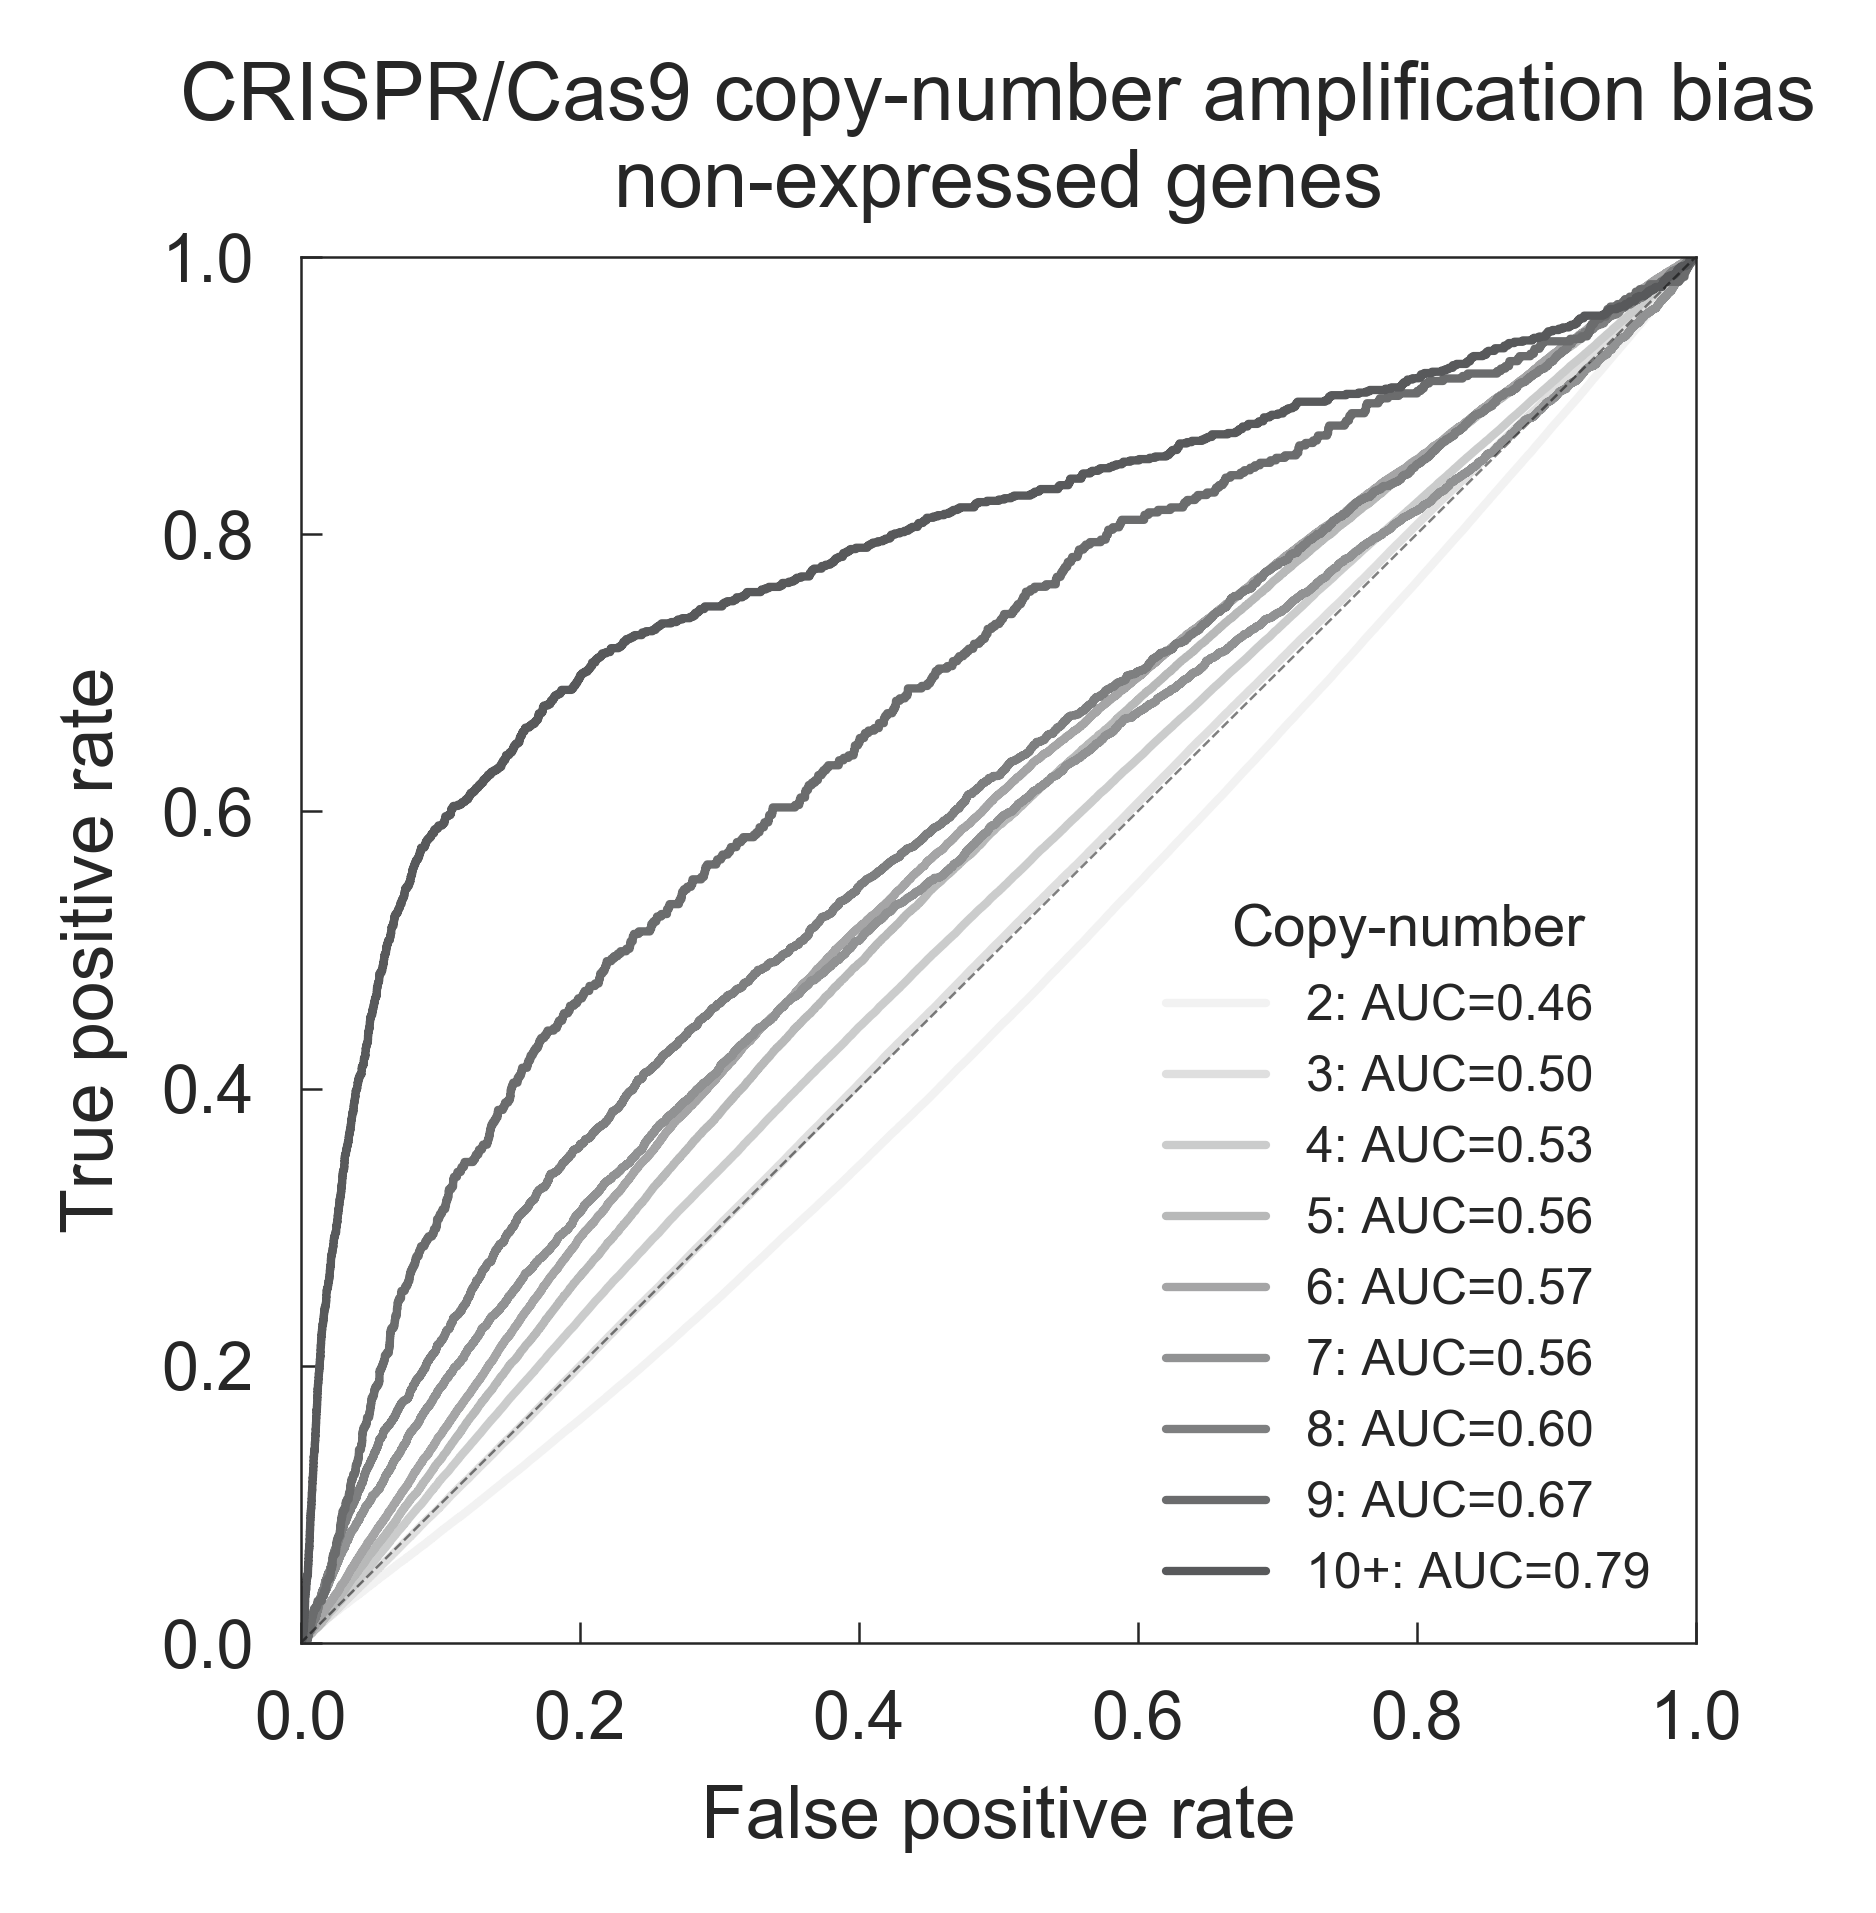
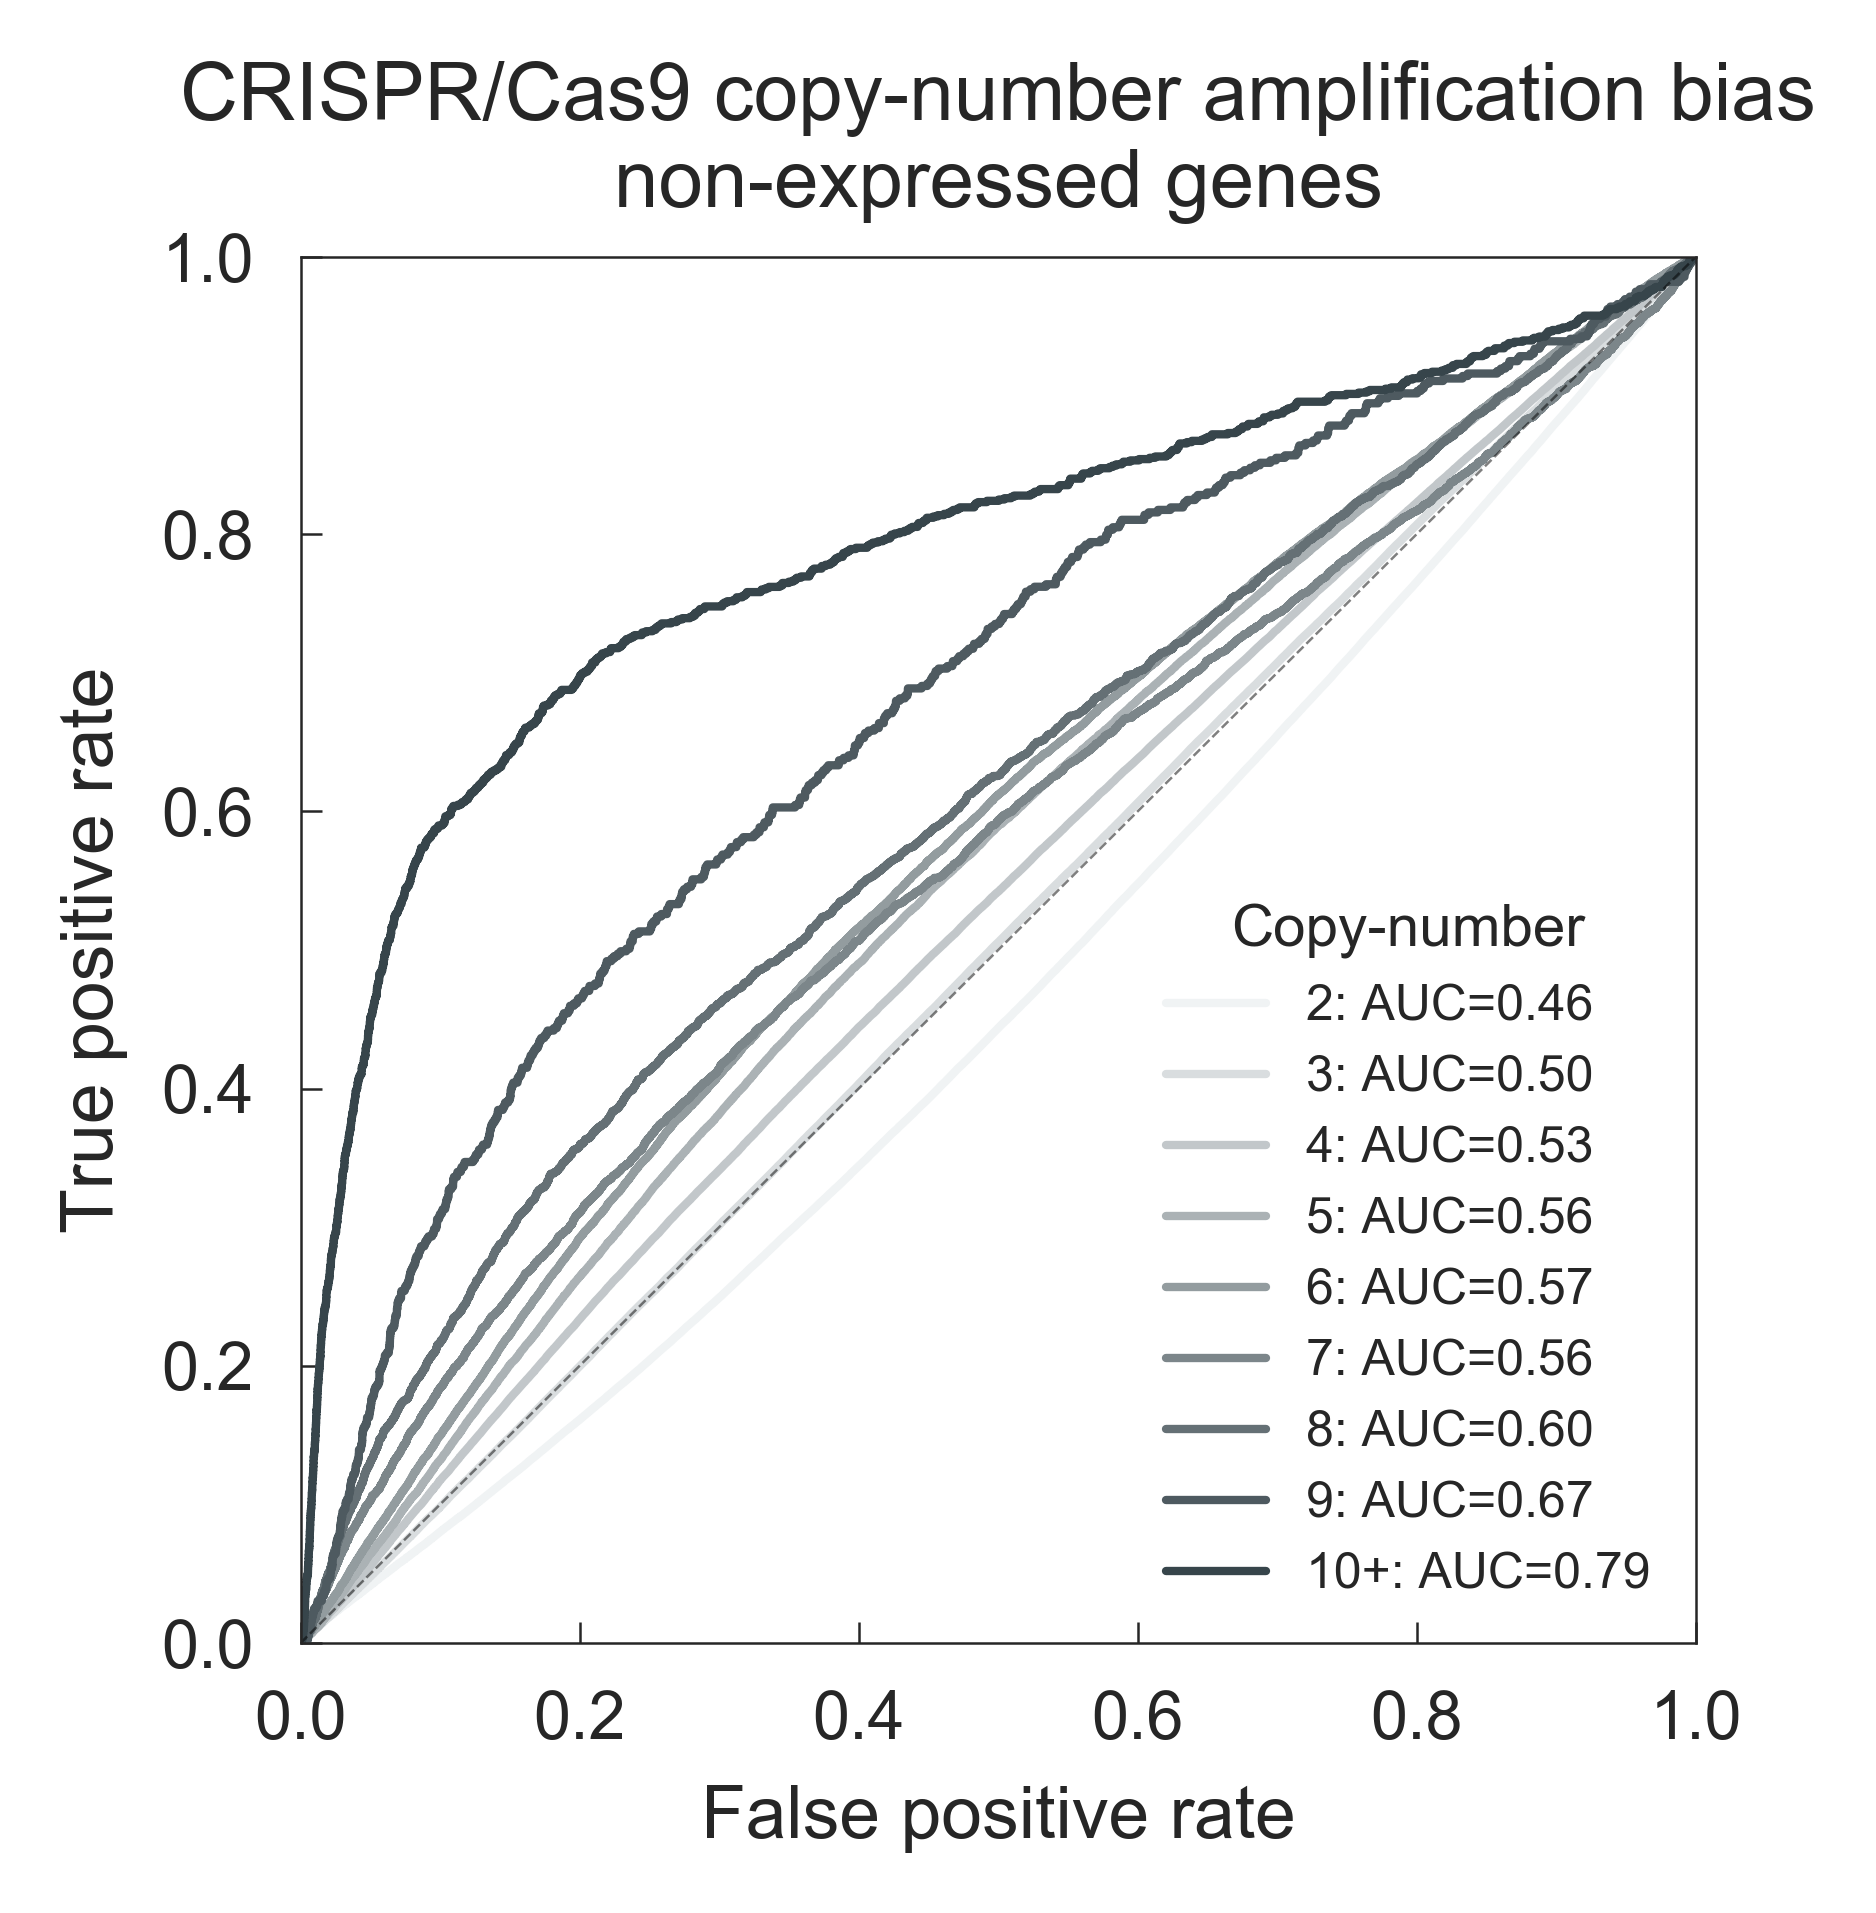
Ploidy enrichment analysis

diff --git a/scripts/crispy/correct_build.py b/scripts/crispy/correct_build.py
@@ -6,8 +6,10 @@ import pickle
 import numpy as np
 import pandas as pd
 import seaborn as sns
+import scipy.stats as st
 import matplotlib.pyplot as plt
-from crispy import bipal_gray
+import matplotlib.patches as mpatches
+from crispy import bipal_dbgd
 from natsort import natsorted
 from sklearn.linear_model import LinearRegression
 from crispy.benchmark_plot import plot_cumsum_auc
@@ -41,6 +43,12 @@ c_gdsc = pd.DataFrame({
 }).dropna()
 c_gdsc.round(5).to_csv('data/crispr_gdsc_crispy.csv')
 
+c_gdsc_kmean = pd.DataFrame({
+    os.path.splitext(f)[0].replace('crispr_gdsc_crispy_', ''):
+        pd.read_csv('data/crispy/' + f, index_col=0)['k_mean']
+    for f in os.listdir('data/crispy/') if f.startswith('crispr_gdsc_crispy_')
+}).dropna()
+
 # CCLE
 c_ccle_fc = pd.read_csv('data/crispr_ccle_logfc.csv', index_col=0)
 
@@ -50,6 +58,10 @@ c_ccle = pd.DataFrame({
     for f in os.listdir('data/crispy/') if f.startswith('crispr_ccle_crispy_')
 }).dropna()
 c_ccle.round(5).to_csv('data/crispr_ccle_crispy.csv')
+
+
+# - Copy-number absolute
+gdsc_cnv_abs = gdsc_cnv[c_gdsc_fc.columns].applymap(lambda v: int(v.split(',')[1])).replace(-1, np.nan)
 
 
 # - Benchmark
@@ -72,9 +84,9 @@ for n, df, df_ in [('gdsc', c_gdsc, c_gdsc_fc)]:
 
     ax = plt.gca()
 
-    ax.scatter(plot_df['Original'], plot_df['Corrected'], c=bipal_gray[0], s=3, marker='x', lw=0.5)
-    sns.rugplot(plot_df['Original'], height=.02, axis='x', c=bipal_gray[0], lw=.3, ax=ax)
-    sns.rugplot(plot_df['Corrected'], height=.02, axis='y', c=bipal_gray[0], lw=.3, ax=ax)
+    ax.scatter(plot_df['Original'], plot_df['Corrected'], c=bipal_dbgd[0], s=3, marker='x', lw=0.5)
+    sns.rugplot(plot_df['Original'], height=.02, axis='x', c=bipal_dbgd[0], lw=.3, ax=ax)
+    sns.rugplot(plot_df['Corrected'], height=.02, axis='y', c=bipal_dbgd[0], lw=.3, ax=ax)
 
     x_lim, y_lim = ax.get_xlim(), ax.get_ylim()
     ax.plot(x_lim, y_lim, 'k--', lw=.3)
@@ -108,9 +120,9 @@ for n, df, df_ in [('gdsc', c_gdsc, c_gdsc_fc)]:
 
     ax = plt.gca()
 
-    ax.scatter(plot_df['Original'], plot_df['Corrected'], c=bipal_gray[0], s=3, marker='x', lw=0.5)
-    sns.rugplot(plot_df['Original'], height=.02, axis='x', c=bipal_gray[0], lw=.3, ax=ax)
-    sns.rugplot(plot_df['Corrected'], height=.02, axis='y', c=bipal_gray[0], lw=.3, ax=ax)
+    ax.scatter(plot_df['Original'], plot_df['Corrected'], c=bipal_dbgd[0], s=3, marker='x', lw=0.5)
+    sns.rugplot(plot_df['Original'], height=.02, axis='x', c=bipal_dbgd[0], lw=.3, ax=ax)
+    sns.rugplot(plot_df['Corrected'], height=.02, axis='y', c=bipal_dbgd[0], lw=.3, ax=ax)
 
     x_lim, y_lim = ax.get_xlim(), ax.get_ylim()
     ax.plot(x_lim, y_lim, 'k--', lw=.3)
@@ -135,10 +147,12 @@ plot_df = pd.concat([
 ], axis=1).dropna()
 plot_df = plot_df.assign(cnv_abs=plot_df['cnv'].apply(lambda v: int(v.split(',')[1])).values).query('cnv_abs >= 2')
 plot_df = plot_df.assign(cnv=[str(i) if i < 10 else '10+' for i in plot_df['cnv_abs']])
+plot_df = plot_df.assign(ploidy=gdsc_cnv_abs.median()[plot_df['sample']].astype(int).values)
 plot_df = plot_df.reset_index().rename(columns={'level_0': 'sample', 'level_1': 'gene'})
+plot_df = plot_df.assign(rank=st.rankdata(plot_df['fc']) / plot_df.shape[0])
 
 thresholds = natsorted(set(plot_df['cnv']))
-thresholds_color = sns.light_palette(bipal_gray[0], n_colors=len(thresholds)).as_hex()
+thresholds_color = sns.light_palette(bipal_dbgd[0], n_colors=len(thresholds)).as_hex()
 
 ax = plt.gca()
 
@@ -161,7 +175,7 @@ plt.savefig('reports/processing_gdsc_copy_number_bias.png', bbox_inches='tight',
 plt.close('all')
 
 
-# - Copy-number variation across cell lines
+# Copy-number variation across cell lines
 df = {}
 for c in set(plot_df['sample']):
     df_ = plot_df.query("sample == '%s'" % c)
@@ -174,6 +188,7 @@ for c in set(plot_df['sample']):
 
 df = pd.DataFrame(df)
 df = df.unstack().reset_index().dropna().rename(columns={'level_0': 'sample', 'level_1': 'cnv', 0: 'auc'})
+df = df.assign(ploidy=gdsc_cnv_abs.median()[df['sample']].astype(int).values)
 
 sns.boxplot('cnv', 'auc', data=df, sym='', order=thresholds, palette=thresholds_color, linewidth=.3)
 sns.stripplot('cnv', 'auc', data=df, order=thresholds, palette=thresholds_color, edgecolor='white', linewidth=.1, size=3, jitter=.4)
@@ -182,10 +197,69 @@ sns.stripplot('cnv', 'auc', data=df, order=thresholds, palette=thresholds_color,
 plt.title('CRISPR/Cas9 copy-number amplification bias\nnon-expressed genes')
 plt.xlabel('Copy-number')
 plt.ylabel('Copy-number AUC (cell lines)')
-plt.axhline(0.5, ls='--', lw=.3, alpha=.5, c=bipal_gray[0])
+plt.axhline(0.5, ls='--', lw=.3, alpha=.5, c=bipal_dbgd[0])
 plt.gcf().set_size_inches(3, 3)
 plt.savefig('reports/processing_gdsc_copy_number_bias_per_sample.png', bbox_inches='tight', dpi=600)
 plt.close('all')
 
 #
+pal = sns.light_palette(bipal_dbgd[0], n_colors=len(set(df['ploidy']))).as_hex()
 
+sns.boxplot('cnv', 'auc', 'ploidy', data=df, sym='', order=thresholds, palette=pal, linewidth=.3)
+sns.stripplot('cnv', 'auc', 'ploidy', data=df, order=thresholds, palette=pal, edgecolor='white', linewidth=.1, size=1, jitter=.2, split=True)
+# plt.show()
+
+handles = [mpatches.Circle([.0, .0], .25, facecolor=c, label=l) for c, l in zip(*(pal, thresholds))]
+legend = plt.legend(handles=handles, title='Ploidy', prop={'size': 6}).get_title().set_fontsize('6')
+plt.title('Cell ploidy effect CRISPR/Cas9 bias\nnon-expressed genes')
+plt.xlabel('Copy-number')
+plt.ylabel('Copy-number AUC (cell lines)')
+plt.axhline(0.5, ls='--', lw=.3, alpha=.5, c=bipal_dbgd[0])
+plt.gcf().set_size_inches(3, 3)
+plt.savefig('reports/processing_gdsc_copy_number_bias_per_sample_ploidy.png', bbox_inches='tight', dpi=600)
+plt.close('all')
+
+# Copy-number variation relation with ploidy
+ax = plt.gca()
+
+sns.boxplot('cnv', 'fc', 'ploidy', data=plot_df, order=thresholds, palette=pal, linewidth=.3, fliersize=1, ax=ax, notch=True)
+plt.axhline(0, lw=.3, c=bipal_dbgd[0], ls='-')
+plt.xlabel('Copy-number')
+plt.ylabel('CRISPR fold-change (log2)')
+plt.title('Cell ploidy effect CRISPR/Cas9 bias\nnon-expressed genes')
+
+plt.legend(title='Ploidy', prop={'size': 6}).get_title().set_fontsize('6')
+plt.gcf().set_size_inches(4, 3)
+plt.savefig('reports/processing_gdsc_copy_number_bias_ploidy.png', bbox_inches='tight', dpi=600)
+plt.close('all')
+
+# Ploidy effect in copy-number
+plot_df = pd.concat([(gdsc_cnv_abs > 2).sum().rename('cnv'), ploidy.rename('ploidy')], axis=1).dropna()
+
+g = sns.jointplot(
+    'cnv', 'ploidy', data=plot_df, color=bipal_dbgd[0], space=0,
+    joint_kws={'edgecolor': 'white', 'lw': .3, 's': 5},
+    marginal_kws={'bins': 15}
+)
+g.set_axis_labels('# genes with copy-number > 2', 'Cell line ploidy')
+
+plt.gcf().set_size_inches(3, 3)
+plt.savefig('reports/ploidy_cnv_jointplot.png', bbox_inches='tight', dpi=600)
+plt.close('all')
+
+#
+df = pd.concat([
+    ploidy.rename('ploidy'),
+    gdsc_cnv.loc[:, ploidy.index].applymap(lambda v: int(v.split(',')[1]) if str(v).lower() != 'nan' else np.nan).replace(-1, np.nan).median().rename('cnv')
+], axis=1)
+
+g = sns.jointplot(
+    'ploidy', 'cnv', data=df, color=bipal_dbgd[0], space=0,
+    joint_kws={'edgecolor': 'white', 'lw': .3, 's': 5},
+    marginal_kws={'bins': 15}
+)
+g.set_axis_labels('Ploidy COSMIC', 'Ploidy (median copy-number)')
+
+plt.gcf().set_size_inches(3, 3)
+plt.savefig('reports/ploidy_cosmic_corr.png', bbox_inches='tight', dpi=600)
+plt.close('all')
